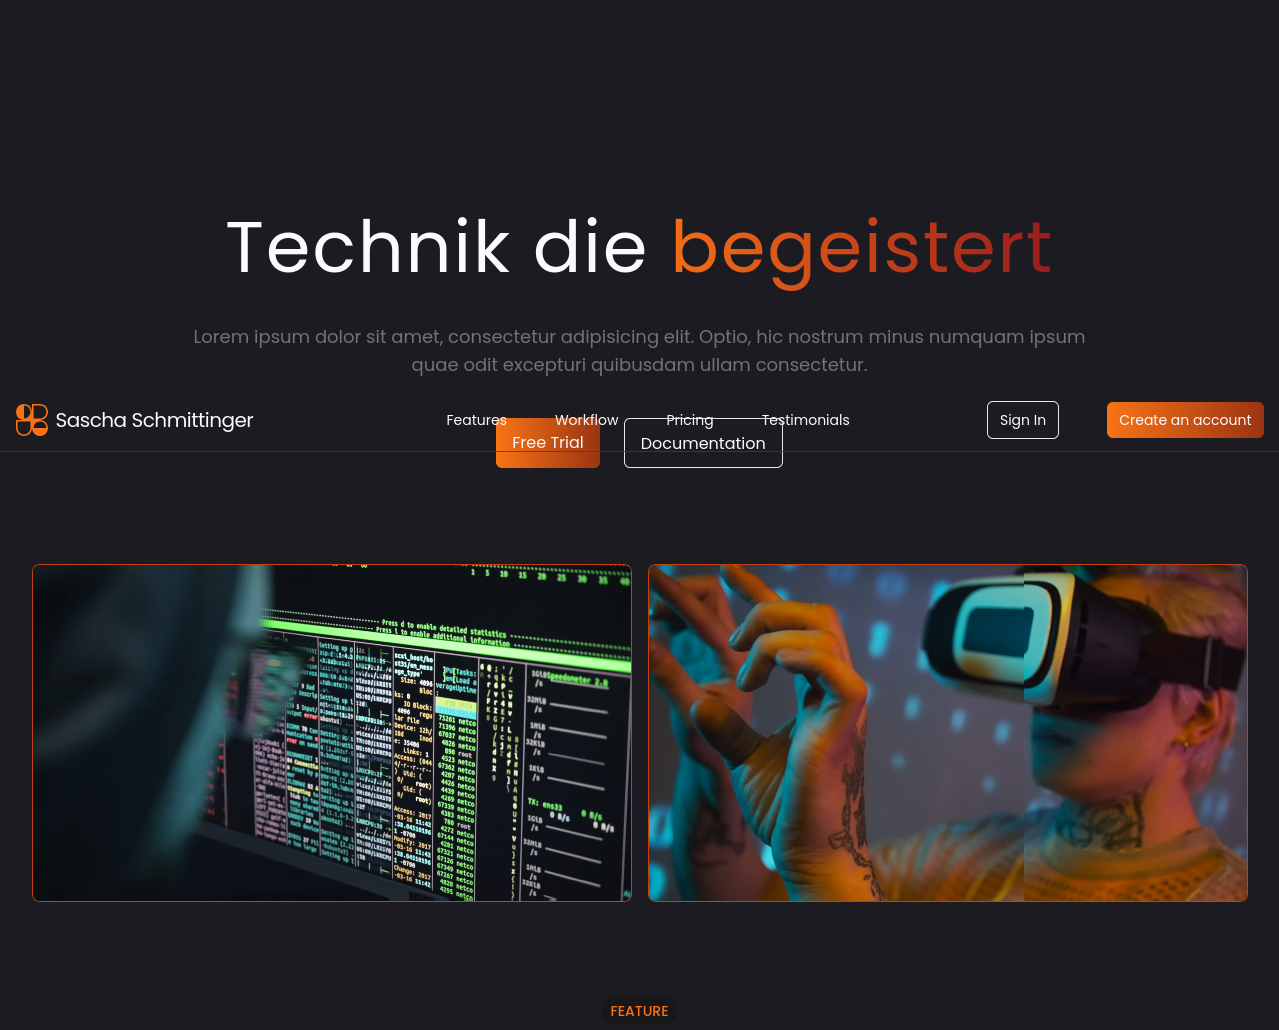
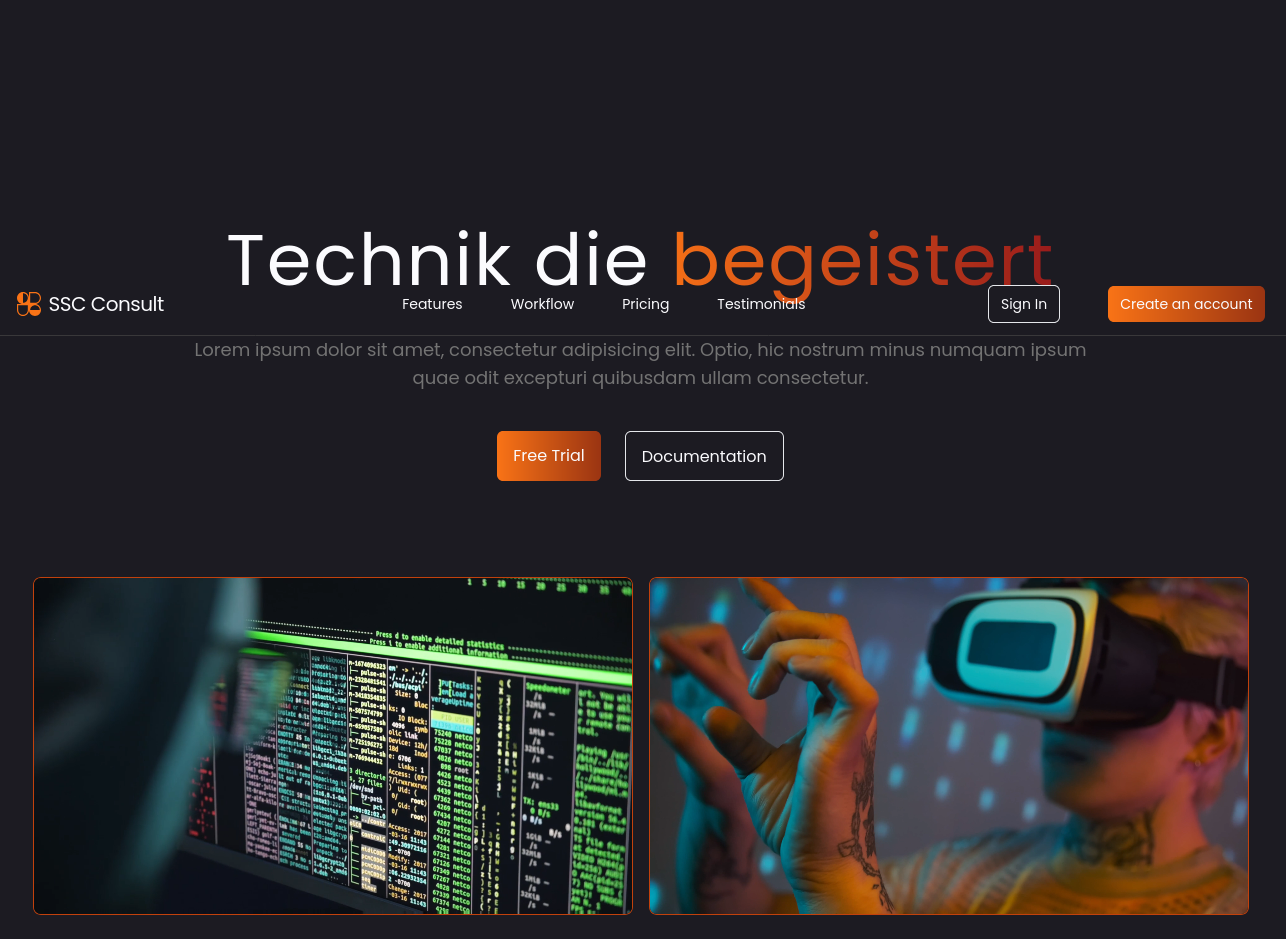
31_10_24

diff --git a/src/constans/index.js b/src/constans/index.js
@@ -98,15 +98,20 @@ const experiences = [
     company_name: "",
     icon: starbucks,
     iconBg: "#383E56",
-    date: "Zoom Call wischen 30 - 60 Min.",
-    points: ["", "", "", ""],
+    date: "Erster Schritt",
+    points: [
+      "Zielvereinbarung: Klare Festlegung der Hauptziele der Webanwendung und Identifikation der Zielgruppen, um Funktionen und Inhalte optimal zu gestalten.",
+      "Anforderungsanalyse: Besprechung der benötigten Funktionen und technischen Anforderungen, um  eine qualitativ hochwertige Lead Gernerierung sicherzustellen",
+      "Zeitplan: Festlegung eines realistischen Zeitplans, um eine effiziente und wirtschaftliche Umsetzung zu gewährleisten.",
+      "Kommunikations- und Feedbackstruktur: Vereinbarung regelmäßiger Meetings, Feedbackzyklen und Kommunikationskanäle, um den Fortschritt transparent zu halten und Änderungswünsche frühzeitig zu erkennen",
+    ],
   },
   {
     title: "Die Entwicklung",
     company_name: "",
     icon: tesla,
     iconBg: "#383E56",
-    date: " zwischen 7 - 14 Tage",
+    date: " Zweiter Schritt",
     points: [
       "Entwicklung der Webanwendung mit React.js und verwandten Technologien",
       "Zusammenarbeit mit funktionsübergreifenden Teams, einschließlich Designern, Produktmanagern und anderen Entwicklern, um für Sie das bestmögliche Ergebniss zu erreichen.",
@@ -119,7 +124,7 @@ const experiences = [
     company_name: "",
     icon: shopify,
     iconBg: "#383E56",
-    date: " zwischen 7 - 14 Tage",
+    date: " Finale Beprechung vor dem Hosting",
     points: ["", "", "", ""],
   },
   {

diff --git a/src/components/Works.jsx b/src/components/Works.jsx
@@ -82,11 +82,12 @@ const Works = () => {
           variants={fadeIn("", "", 0.1, 1)}
           className="mt-3 text-secondary text-[17px] max-w-3xl leading-[30px]"
         >
-          Following projects showcases my skills and experience through
-          real-world examples of my work. Each project is briefly described with
-          links to code repositories and live demos in it. It reflects my
-          ability to solve complex problems, work with different technologies,
-          and manage projects effectively.
+          Die folgenden Projekte zeigen meine Fähigkeiten und Erfahrungen anhand
+          praktischer Beispiele meiner Arbeit. Jedes Projekt wird kurz
+          beschrieben und enthält Links zu Code-Repositories und Live-Demos. Sie
+          verdeutlichen meine Fähigkeit, komplexe Probleme zu lösen, mit
+          verschiedenen Technologien zu arbeiten und Projekte effektiv zu
+          managen.
         </motion.p>
       </div>
 
